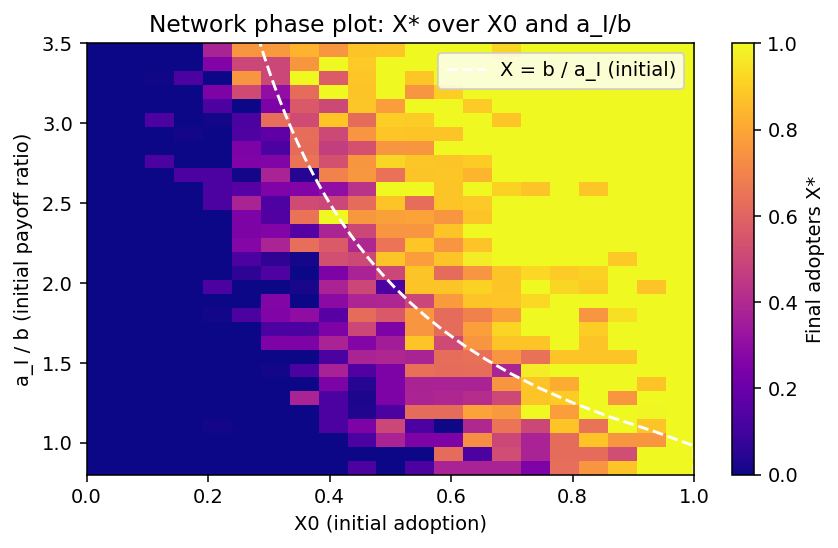
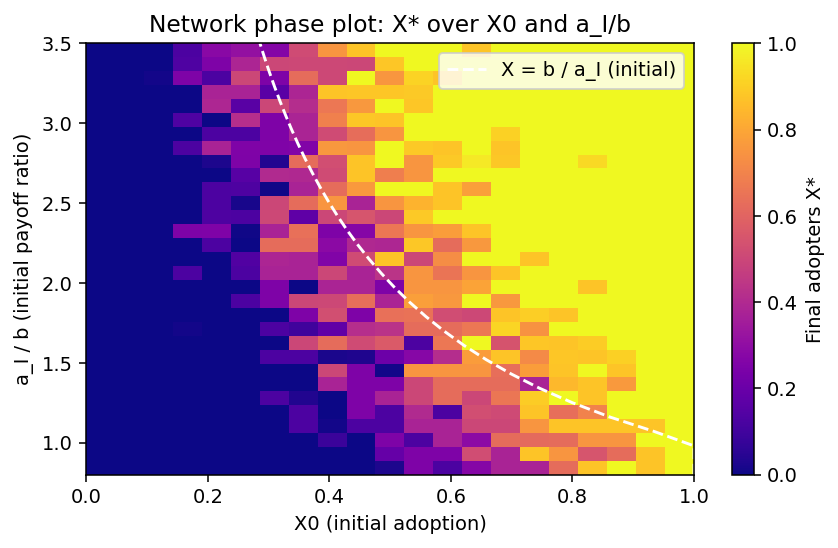
added different networks

diff --git a/Assignment3/ev_experiments.py b/Assignment3/ev_experiments.py
@@ -15,13 +15,13 @@ import pandas as pd
 import matplotlib.pyplot as plt
 from concurrent.futures import ProcessPoolExecutor, ThreadPoolExecutor, as_completed
 
-from Assignment3.Original_files.ev_core import (
+from ev_core import (
     EVStagHuntModel,
     set_initial_adopters,
     final_mean_adoption_vs_ratio,
     phase_sweep_X0_vs_ratio,
 )
-from Assignment3.Original_files.ev_plotting import (
+from ev_plotting import (
     plot_fanchart,
     plot_spaghetti,
     plot_density,
@@ -748,7 +748,7 @@ def main():
     max_workers = 1
     seed_base = 100
 
-    scenario = dict(
+    base_scenario = dict(
         # Preserve initial ratio by computing a0 from ratio, matching the original
         ratio=2.3,
         beta_I=2.0,
@@ -761,76 +761,92 @@ def main():
         collect=True,
         X0_frac=0.40,
         init_method="random",
-        # ER-specific `p` ignored for BA but kept for completeness
         p=0.05,
     )
     subsidy = dict(start=10, end=60, delta_a0=0.4, delta_beta_I=0.0)
 
-    baseline_df, subsidy_df, img_path = run_intervention_example(
-        n_trials=n_trials,
-        T=T,
-        scenario_kwargs=scenario,
-        subsidy_params=subsidy,
-        max_workers=max_workers,
-        seed_base=seed_base,
-        strategy_choice_func=strategy_choice_func,
-        tau=tau,
-    )
+    scenarios = [
+        ("BA", {**base_scenario, "network_type": "BA"}),
+        ("ER", {**base_scenario, "network_type": "random"}),
+        ("Grids", {**base_scenario, "network_type": "grid"})
+    ]
 
-    print("Baseline DF shape:", baseline_df.shape)
-    print("Subsidy DF shape:", subsidy_df.shape)
-    print("Saved image:", img_path)
-    print("Baseline final X_mean:", float(baseline_df["X_mean"].iloc[-1]))
-    print("Subsidy  final X_mean:", float(subsidy_df["X_mean"].iloc[-1]))
+    for label, scenario in scenarios:
+        print(f"\n=== Running scenario: {label} ===")
 
-    # Also run the phase plot of X* over (X0, a_I/b) and save it
-    phase_df = phase_sweep_df(
-        max_workers=1,
-        backend="thread",
-        X0_values=np.linspace(0.0, 1.0, 21),
-        ratio_values=np.linspace(0.8, 3.5, 31),
-        batch_size=8,
-        T=200,
-        strategy_choice_func="logit",
-        tau=1.0,
-    )
-    phase_path = plot_phase_plot(phase_df)
-    print("Saved phase plot:", phase_path)
+        #Intervention trials + fanchart
+        baseline_X, baseline_I, subsidy_X, subsidy_I, baseline_df, subsidy_df = collect_intervention_trials(
+            n_trials=n_trials,
+            T=T,
+            scenario_kwargs=scenario,
+            subsidy_params=subsidy,
+            max_workers=max_workers,
+            seed_base=seed_base,
+            strategy_choice_func=strategy_choice_func,
+            tau=tau,
+        )
 
-    # Spaghetti and time-evolving density plots
-    # Use a larger trial count for clearer trace/density visuals
-    n_trials_spaghetti = 100
-    T_spaghetti = 200
+        print("Baseline DF shape:", baseline_df.shape)
+        print("Subsidy DF shape:", subsidy_df.shape)
+        print("Baseline final X_mean:", float(baseline_df["X_mean"].iloc[-1]))
+        print("Subsidy  final X_mean:", float(subsidy_df["X_mean"].iloc[-1]))
+        fanchart_path = plot_intervention_fanchart(
+            baseline_X,
+            subsidy_X,
+            out_path=f"fanchart_{label}.png",  # <<< MODIFIED
+        )
+        print("Saved fanchart image:", fanchart_path)
 
-    baseline_X, baseline_I, subsidy_X, subsidy_I, baseline_df2, subsidy_df2 = collect_intervention_trials(
-        n_trials=n_trials_spaghetti,
-        T=T_spaghetti,
-        scenario_kwargs=scenario,
-        subsidy_params=subsidy,
-        max_workers=max_workers,
-        seed_base=seed_base,
-        strategy_choice_func=strategy_choice_func,
-        tau=tau,
-    )
-    traces_df = traces_to_long_df(baseline_X, subsidy_X)
-    spaghetti_path = plot_spaghetti(traces_df, max_traces=100, alpha=0.15)
-    print("Saved spaghetti plot:", spaghetti_path)
+        # Also run the phase plot of X* over (X0, a_I/b) and save it
+        phase_df = phase_sweep_df(
+            max_workers=1,
+            backend="thread",
+            X0_values=np.linspace(0.0, 1.0, 21),
+            ratio_values=np.linspace(0.8, 3.5, 31),
+            batch_size=8,
+            T=200,
+            strategy_choice_func="logit",
+            tau=1.0,
+            scenario_kwargs=scenario
+        )
+        phase_path = plot_phase_plot(phase_df, out_path=f"phase_{label}.png")
+        print("Saved phase plot:", phase_path)
 
-    density_path = plot_density(traces_df, x_bins=50, time_bins=T_spaghetti)
-    print("Saved time-evolving density plot:", density_path)
+        # Spaghetti and time-evolving density plots
+        # Use a larger trial count for clearer trace/density visuals
+        n_trials_spaghetti = 100
+        T_spaghetti = 200
 
-    # Ratio sweep computed to DF then plotted
-    sweep_df = ratio_sweep_df(
-        X0_frac=scenario.get("X0_frac", 0.40),
-        ratio_values=np.linspace(0.8, 3.5, 31),
-        scenario_kwargs=scenario,
-        T=200,
-        batch_size=8,
-        strategy_choice_func="logit",
-        tau=1.0,
-    )
-    sweep_path = plot_ratio_sweep(sweep_df)
-    print("Saved ratio sweep plot:", sweep_path)
+        baseline_X, baseline_I, subsidy_X, subsidy_I, baseline_df2, subsidy_df2 = collect_intervention_trials(
+            n_trials=n_trials_spaghetti,
+            T=T_spaghetti,
+            scenario_kwargs=scenario,
+            subsidy_params=subsidy,
+            max_workers=max_workers,
+            seed_base=seed_base,
+            strategy_choice_func=strategy_choice_func,
+            tau=tau,
+        )
+        traces_df = traces_to_long_df(baseline_X, subsidy_X)
+        spaghetti_path = plot_spaghetti(traces_df, max_traces=100, alpha=0.15, out_path=f"plots/spaghetti_{label}.png")
+        
+        print("Saved spaghetti plot:", spaghetti_path)
+
+        density_path = plot_density(traces_df, x_bins=50, time_bins=T_spaghetti, out_path=f"density_{label}.png")
+        print("Saved time-evolving density plot:", density_path)
+
+        # Ratio sweep computed to DF then plotted
+        sweep_df = ratio_sweep_df(
+            X0_frac=scenario.get("X0_frac", 0.40),
+            ratio_values=np.linspace(0.8, 3.5, 31),
+            scenario_kwargs=scenario,
+            T=200,
+            batch_size=8,
+            strategy_choice_func="logit",
+            tau=1.0
+        )
+        sweep_path = plot_ratio_sweep(sweep_df, out_path=f"ratio_sweep_{label}.png")
+        print("Saved ratio sweep plot:", sweep_path)
 
 
 if __name__ == "__main__":
